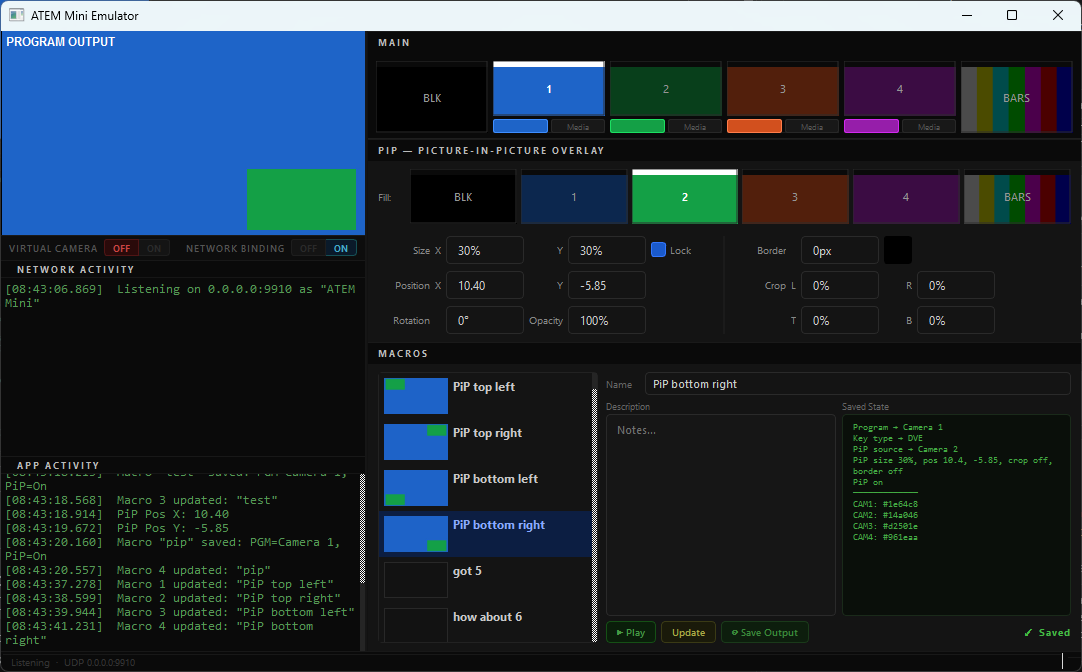
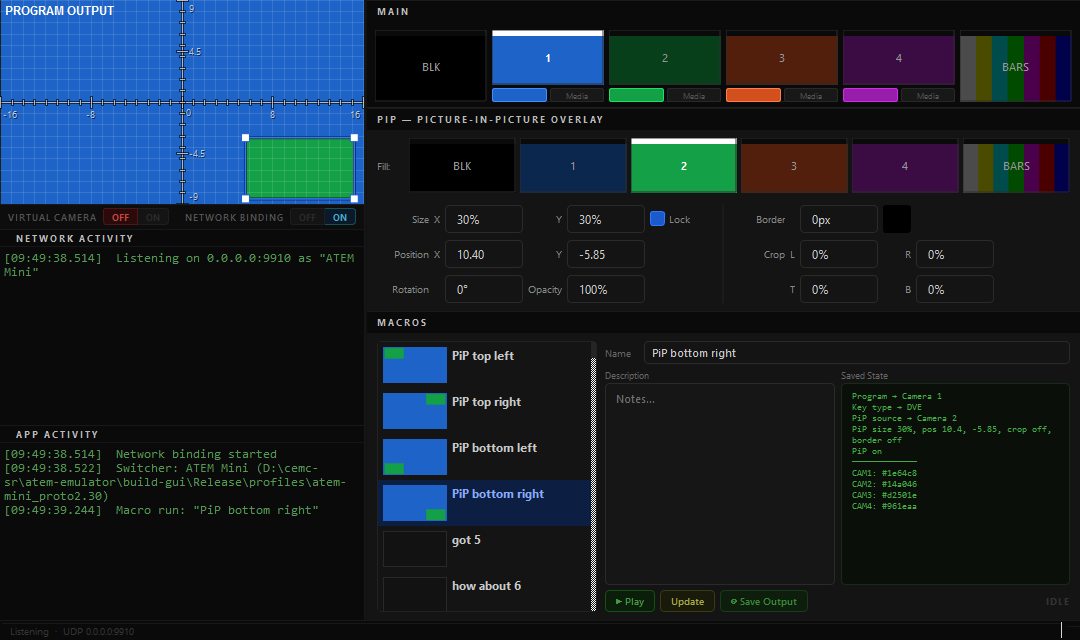
Emulator preview: axes, 1-unit grid, Shift one-axis and Alt snapping
- The preview shows the switcher's axes while the mouse is over it: origin
  0 at the centre, +Y up, a tick per unit, +-16 / +-9 and +-8 / +-4.5
  labelled.
- The drag grid is one unit (32 x 18 cells); the centre lines are on it.
- Shift: move along one axis only (the one moved more), snapped to a grid
  line on it; for a corner the same. Alt: snapped on both axes. Both apply
  at once when pressed or released mid-drag.
- A corner drag keeps where the corner was grabbed; with Lock the axis
  dragged along more sets the size (so a one-axis drag can shrink it).
- --screenshot FILE [--macro N]: run a macro, show the guides, save the
  window and exit; docs/emulator.png made with --macro 4.

diff --git a/src/PreviewWidget.cpp b/src/PreviewWidget.cpp
@@ -11,9 +11,9 @@ constexpr double kGrab = 7;         // how close to a corner grabs it
 constexpr double kMinSize = 0.05;   // the window's size range, 5-200%
 constexpr double kMaxSize = 2.0;
 constexpr double kMaxPos = 200.0;   // the position boxes' range
-// The grid: 16 x 9 cells of 2 x 2 switcher units (80 px at 1280 x 720),
-// plus the centre lines. Includes the frame edges.
-constexpr int kColumns = 16, kRows = 9;
+// The grid: 32 x 18 cells of one switcher unit (40 px at 1280 x 720), so the
+// frame edges and the centre lines are grid lines.
+constexpr int kColumns = 32, kRows = 18;
 } // namespace
 
 PreviewWidget::PreviewWidget(QWidget* parent)
@@ -134,10 +134,13 @@ void PreviewWidget::paintEvent(QPaintEvent*)
     p.setFont(QFont("Arial", 9, QFont::Bold));
     p.drawText(dst.adjusted(4, 4, 0, 0), Qt::AlignTop | Qt::AlignLeft, "PROGRAM OUTPUT");
 
-    // The grid, the PiP's outline and corner handles: only in this preview
-    // (never in the virtual camera's picture).
-    if (!interactive() || (!m_hover && m_drag == Part::None)) return;
-    if (m_drag != Part::None) paintGrid(p);
+    // The grid, the axes, the PiP's outline and corner handles: only in this
+    // preview (never in the virtual camera's picture).
+    const bool dragging = m_drag != Part::None || m_showGuides;
+    if (!m_hover && !dragging) return;
+    if (dragging) paintGrid(p);
+    paintAxes(p);
+    if (!interactive()) return;
     QPolygonF c = corners(m_geo);
     for (QPointF& pt : c) pt = toWidget(pt);
     p.setRenderHint(QPainter::Antialiasing);
@@ -162,7 +165,8 @@ void PreviewWidget::mousePressEvent(QMouseEvent* e)
     m_drag = part;
     m_pressFrame = toFrame(e->position());
     m_lastPos = e->position();
-    m_snap = e->modifiers() & Qt::ShiftModifier;
+    m_oneAxis = e->modifiers() & Qt::ShiftModifier;
+    m_snapBoth = e->modifiers() & Qt::AltModifier;
     m_startPip = m_pip;
     m_startGeo = m_geo;
     updateCursor(part);
@@ -174,7 +178,8 @@ void PreviewWidget::mouseMoveEvent(QMouseEvent* e)
     m_hover = true;
     if (m_drag != Part::None) {
         m_lastPos = e->position();
-        m_snap = e->modifiers() & Qt::ShiftModifier;
+        m_oneAxis = e->modifiers() & Qt::ShiftModifier;
+        m_snapBoth = e->modifiers() & Qt::AltModifier;
         dragTo(m_lastPos);
         update();
         return;
@@ -193,12 +198,12 @@ void PreviewWidget::mouseReleaseEvent(QMouseEvent* e)
     emit pipEditFinished(resized);
 }
 
-// Esc during a drag puts the PiP back where it was; Shift snaps (or stops
-// snapping) at once, without waiting for the mouse to move.
+// Esc during a drag puts the PiP back where it was; Shift and Alt take
+// effect at once, without waiting for the mouse to move.
 void PreviewWidget::keyPressEvent(QKeyEvent* e)
 {
-    if (e->key() == Qt::Key_Shift && m_drag != Part::None) {
-        m_snap = true;
+    if ((e->key() == Qt::Key_Shift || e->key() == Qt::Key_Alt) && m_drag != Part::None) {
+        (e->key() == Qt::Key_Shift ? m_oneAxis : m_snapBoth) = true;
         dragTo(m_lastPos);
         update();
         return;
@@ -213,8 +218,11 @@ void PreviewWidget::keyPressEvent(QKeyEvent* e)
 
 void PreviewWidget::keyReleaseEvent(QKeyEvent* e)
 {
-    if (e->key() != Qt::Key_Shift || m_drag == Part::None) { QWidget::keyReleaseEvent(e); return; }
-    m_snap = false;
+    if ((e->key() != Qt::Key_Shift && e->key() != Qt::Key_Alt) || m_drag == Part::None) {
+        QWidget::keyReleaseEvent(e);
+        return;
+    }
+    (e->key() == Qt::Key_Shift ? m_oneAxis : m_snapBoth) = false;
     dragTo(m_lastPos);
     update();
 }
@@ -231,15 +239,20 @@ void PreviewWidget::dragTo(const QPointF& widgetPos)
     const PipGeometry& g = m_startGeo;
     const double sizeX0 = m_startPip.sizeX / 1000.0, sizeY0 = m_startPip.sizeY / 1000.0;
 
+    // Shift: along one axis only (the one moved more), snapped on it.
+    // Alt: snapped on both axes. (Pixels are square: 40 px per unit.)
+    QPointF delta = at - m_pressFrame;
+    const bool alongX = std::abs(delta.x()) >= std::abs(delta.y());
+    if (m_oneAxis) (alongX ? delta.ry() : delta.rx()) = 0;
+    const bool snapX = m_snapBoth || (m_oneAxis && alongX);
+    const bool snapY = m_snapBoth || (m_oneAxis && !alongX);
+
     if (m_drag == Part::Body) {
-        QPointF delta = at - m_pressFrame;
-        if (m_snap) {
-            // The nearest of the PiP's edges and centre goes onto a grid line
-            // (for a turned PiP, its bounding box's).
-            QRectF r = rotation(g).map(QPolygonF(g.visible)).boundingRect().translated(delta);
-            delta += QPointF(snapShift({ r.left(), r.center().x(), r.right() }, Qt::Horizontal),
-                             snapShift({ r.top(), r.center().y(), r.bottom() }, Qt::Vertical));
-        }
+        // The nearest of the PiP's edges and centre goes onto a grid line
+        // (for a turned PiP, its bounding box's).
+        QRectF r = rotation(g).map(QPolygonF(g.visible)).boundingRect().translated(delta);
+        if (snapX) delta.rx() += snapShift({ r.left(), r.center().x(), r.right() }, Qt::Horizontal);
+        if (snapY) delta.ry() += snapShift({ r.top(), r.center().y(), r.bottom() }, Qt::Vertical);
         emitGeometry(g.box.center() + delta, sizeX0, sizeY0, false);
         return;
     }
@@ -248,20 +261,27 @@ void PreviewWidget::dragTo(const QPointF& widgetPos)
     // (unrotated) coordinates, then turned back into the frame.
     const QSizeF frame = frameSize();
     const QTransform turn = rotation(g);
-    // Snapping puts the dragged corner on the nearest grid point.
-    const QPointF corner = m_snap ? at + QPointF(snapShift({ at.x() }, Qt::Horizontal),
-                                                 snapShift({ at.y() }, Qt::Vertical)) : at;
-    const QPointF local = turn.inverted().map(corner);
     const bool right = m_drag == Part::TopRight || m_drag == Part::BottomRight;
     const bool bottom = m_drag == Part::BottomLeft || m_drag == Part::BottomRight;
     const QPointF anchor(right ? g.visible.left() : g.visible.right(),
                          bottom ? g.visible.top() : g.visible.bottom());
+    const QPointF startCorner(right ? g.visible.right() : g.visible.left(),
+                              bottom ? g.visible.bottom() : g.visible.top());
+    // The corner follows the mouse (keeping where it was grabbed); snapping
+    // puts it on a grid line.
+    QPointF corner = turn.map(startCorner) + delta;
+    if (snapX) corner.rx() += snapShift({ corner.x() }, Qt::Horizontal);
+    if (snapY) corner.ry() += snapShift({ corner.y() }, Qt::Vertical);
+    const QPointF local = turn.inverted().map(corner);
     const double fw = 1 - g.ml - g.mr, fh = 1 - g.mt - g.mb;   // the mask keeps these shares
 
     double sizeX = (right ? local.x() - anchor.x() : anchor.x() - local.x()) / fw / frame.width();
     double sizeY = (bottom ? local.y() - anchor.y() : anchor.y() - local.y()) / fh / frame.height();
     if (m_lockAspect) {
-        double s = qMax(sizeX / sizeX0, sizeY / sizeY0);
+        // The axis the corner moved more along sets the size.
+        const QPointF moved = local - startCorner;
+        double s = std::abs(moved.x()) / frame.width() >= std::abs(moved.y()) / frame.height()
+                 ? sizeX / sizeX0 : sizeY / sizeY0;
         s = qBound(kMinSize / qMin(sizeX0, sizeY0), s, kMaxSize / qMax(sizeX0, sizeY0));
         sizeX = sizeX0 * s;
         sizeY = sizeY0 * s;
@@ -298,7 +318,6 @@ QList<double> PreviewWidget::gridLines(Qt::Orientation o) const
     const int cells = o == Qt::Horizontal ? kColumns : kRows;
     QList<double> lines;
     for (int i = 0; i <= cells; ++i) lines.append(length * i / cells);
-    if (cells % 2) lines.append(length / 2);    // 9 rows: the centre is between lines
     return lines;
 }
 
@@ -319,20 +338,72 @@ double PreviewWidget::snapShift(const QList<double>& edges, Qt::Orientation o) c
 void PreviewWidget::paintGrid(QPainter& p) const
 {
     p.save();
-    QRectF r = frameRect();
-    const QColor line(255, 255, 255, m_snap ? 70 : 35);
-    const QColor centre(255, 255, 255, m_snap ? 130 : 70);
-    auto draw = [&](Qt::Orientation o) {
-        const double length = o == Qt::Horizontal ? frameSize().width() : frameSize().height();
-        for (double at : gridLines(o)) {
-            const bool mid = qFuzzyCompare(at, length / 2);
-            p.setPen(QPen(mid ? centre : line, 1, mid ? Qt::DashLine : Qt::SolidLine));
-            QPointF w = toWidget(o == Qt::Horizontal ? QPointF(at, 0) : QPointF(0, at));
-            if (o == Qt::Horizontal) p.drawLine(QPointF(w.x(), r.top()), QPointF(w.x(), r.bottom()));
-            else                     p.drawLine(QPointF(r.left(), w.y()), QPointF(r.right(), w.y()));
-        }
+    const QRectF r = frameRect();
+    p.setPen(QPen(QColor(255, 255, 255, m_oneAxis || m_snapBoth ? 60 : 30), 1));
+    for (double at : gridLines(Qt::Horizontal)) {
+        const double x = toWidget(QPointF(at, 0)).x();
+        p.drawLine(QPointF(x, r.top()), QPointF(x, r.bottom()));
+    }
+    for (double at : gridLines(Qt::Vertical)) {
+        const double y = toWidget(QPointF(0, at)).y();
+        p.drawLine(QPointF(r.left(), y), QPointF(r.right(), y));
+    }
+    p.restore();
+}
+
+// The switcher's coordinates: X and Y axes through the origin (the frame's
+// centre), a tick per unit, and the edges (+-16, +-9) and halfway points
+// (+-8, +-4.5) marked with their values. +Y is up.
+void PreviewWidget::paintAxes(QPainter& p) const
+{
+    p.save();
+    const QRectF r = frameRect();
+    const QPointF o = r.center();
+    const double unit = r.width() / 32;     // widget pixels per switcher unit
+    const QColor ink(255, 255, 255, 170), shadow(0, 0, 0, 150);
+
+    auto line = [&](QPointF a, QPointF b) {
+        p.setPen(QPen(shadow, 3));
+        p.drawLine(a, b);
+        p.setPen(QPen(ink, 1));
+        p.drawLine(a, b);
     };
-    draw(Qt::Horizontal);
-    draw(Qt::Vertical);
+    line({ r.left(), o.y() }, { r.right(), o.y() });
+    line({ o.x(), r.top() }, { o.x(), r.bottom() });
+    for (int i = -16; i <= 16; ++i) {
+        const double len = i % 8 == 0 ? 5 : 2;
+        line({ o.x() + i * unit, o.y() - len }, { o.x() + i * unit, o.y() + len });
+    }
+    for (int j = -9; j <= 9; ++j) {
+        const double len = j == 9 || j == -9 ? 5 : 2;
+        line({ o.x() - len, o.y() - j * unit }, { o.x() + len, o.y() - j * unit });
+    }
+    for (double j : { -4.5, 4.5 })
+        line({ o.x() - 5, o.y() - j * unit }, { o.x() + 5, o.y() - j * unit });
+
+    QFont f = font();
+    f.setPointSizeF(7);
+    p.setFont(f);
+    auto label = [&](const QString& text, QPointF at, Qt::Alignment a) {
+        QRectF box(at.x() - 40, at.y() - 10, 80, 20);
+        if (a & Qt::AlignLeft) box.moveLeft(at.x());
+        if (a & Qt::AlignRight) box.moveRight(at.x());
+        if (a & Qt::AlignTop) box.moveTop(at.y());
+        if (a & Qt::AlignBottom) box.moveBottom(at.y());
+        p.setPen(shadow);
+        p.drawText(box.translated(1, 1), a, text);
+        p.setPen(ink);
+        p.drawText(box, a, text);
+    };
+    const double below = o.y() + 6, beside = o.x() + 7;
+    label("0", { o.x() + 4, o.y() + 4 }, Qt::AlignLeft | Qt::AlignTop);
+    label("-16", { r.left() + 3, below }, Qt::AlignLeft | Qt::AlignTop);
+    label("16", { r.right() - 3, below }, Qt::AlignRight | Qt::AlignTop);
+    label("-8", { o.x() - 8 * unit, below }, Qt::AlignHCenter | Qt::AlignTop);
+    label("8", { o.x() + 8 * unit, below }, Qt::AlignHCenter | Qt::AlignTop);
+    label("9", { beside, r.top() + 2 }, Qt::AlignLeft | Qt::AlignTop);
+    label("-9", { beside, r.bottom() - 2 }, Qt::AlignLeft | Qt::AlignBottom);
+    label("4.5", { beside, o.y() - 4.5 * unit }, Qt::AlignLeft | Qt::AlignVCenter);
+    label("-4.5", { beside, o.y() + 4.5 * unit }, Qt::AlignLeft | Qt::AlignVCenter);
     p.restore();
 }

diff --git a/src/PreviewWidget.h b/src/PreviewWidget.h
@@ -8,9 +8,11 @@
 // Accepts a new frame via setFrame() and repaints.
 //
 // The PiP on it can be dragged to move it, and resized by its corner handles
-// (shown while the mouse is over the picture). While dragging, a grid is
-// drawn; holding Shift snaps to it. The widget only reports the new
-// geometry; the window sends it to the switcher like any other change.
+// (shown, with the switcher's X / Y axes, while the mouse is over the
+// picture). While dragging, a grid of one unit is drawn: Shift keeps the drag
+// on one axis and snaps it to the grid, Alt snaps on both axes. The widget
+// only reports the new geometry; the window sends it to the switcher like
+// any other change.
 
 class PreviewWidget : public QWidget
 {
@@ -25,6 +27,8 @@ public:
     void setPip(const Atem::KeDVState& pip);
     // Corner drags keep the width : height ratio (the window's size Lock).
     void setLockAspect(bool lock) { m_lockAspect = lock; }
+    // Show the axes, grid and handles as during a drag (for screenshots).
+    void setShowGuides(bool on) { m_showGuides = on; update(); }
 
 public slots:
     void setFrame(const QImage& img);
@@ -60,6 +64,7 @@ private:
     QList<double> gridLines(Qt::Orientation o) const;   // frame pixels
     double snapShift(const QList<double>& edges, Qt::Orientation o) const;
     void paintGrid(QPainter& p) const;
+    void paintAxes(QPainter& p) const;
     void emitGeometry(const QPointF& boxCentre, double sizeX, double sizeY, bool resized);
 
     QImage m_frame;
@@ -67,11 +72,13 @@ private:
     PipGeometry m_geo;
     bool m_lockAspect = true;
     bool m_hover = false;
+    bool m_showGuides = false;
 
     Part m_drag = Part::None;
     QPointF m_pressFrame;                     // where the drag started, frame pixels
     QPointF m_lastPos;                        // the mouse during a drag, widget pixels
-    bool m_snap = false;                      // Shift held: snap to the grid
+    bool m_oneAxis = false;                   // Shift: one axis, snapped on it
+    bool m_snapBoth = false;                  // Alt: snapped on both axes
     Atem::KeDVState m_startPip;
     PipGeometry m_startGeo;
 };

diff --git a/src/main.cpp b/src/main.cpp
@@ -5,6 +5,7 @@
 #include <QDir>
 #include <QFileInfo>
 #include <QSurfaceFormat>
+#include <QTimer>
 
 #ifndef ATEM_EMU_PROFILES
 #define ATEM_EMU_PROFILES ""
@@ -33,7 +34,10 @@ int main(int argc, char* argv[])
     QCommandLineOption listen("listen", "Address to listen on (default: all).", "address", "0.0.0.0");
     QCommandLineOption reference("reference", "Start exactly as recorded: no saved macros are loaded or saved "
                                               "(for checking the emulator with atem-sweep).");
-    parser.addOptions({ profile, listen, reference });
+    QCommandLineOption screenshot("screenshot", "Save the window to FILE after a few seconds and exit "
+                                                "(for documentation; the preview shows its guides).", "file");
+    QCommandLineOption macro("macro", "With --screenshot: run macro N (1-100) first.", "n");
+    parser.addOptions({ profile, listen, reference, screenshot, macro });
     parser.process(app);
 
     Logger::instance().open();
@@ -46,6 +50,16 @@ int main(int argc, char* argv[])
     MainWindow w(options);
     if (!w.isReady()) return 1;
     w.show();
+
+    if (parser.isSet(screenshot)) {
+        const QString file = parser.value(screenshot);
+        const int slot = parser.isSet(macro) ? parser.value(macro).toInt() - 1 : -1;
+        QTimer::singleShot(500, &w, [&w, slot] { w.prepareScreenshot(slot); });
+        QTimer::singleShot(3000, &w, [&w, file] {
+            if (!w.grab().save(file)) qWarning("could not save %s", qPrintable(file));
+            w.close();
+        });
+    }
 
     return app.exec();
 }

diff --git a/src/MainWindow.cpp b/src/MainWindow.cpp
@@ -1270,6 +1270,15 @@ void MainWindow::onMacroRun()
     apply("MAct", emu::cmd::macroAction((quint16)slot, 0));
 }
 
+void MainWindow::prepareScreenshot(int macroSlot)
+{
+    if (macroSlot >= 0 && macroSlot < m_macroList->count()) {
+        m_macroList->setCurrentRow(macroSlot);
+        onMacroRun();
+    }
+    m_preview->setShowGuides(true);
+}
+
 void MainWindow::onMacroUpdate()
 {
     auto* sel = selectedMacroItem(); if (!sel) return;

diff --git a/src/MainWindow.h b/src/MainWindow.h
@@ -36,6 +36,9 @@ public:
     ~MainWindow() override;
 
     bool isReady() const { return m_ready; }
+    // --screenshot: run this macro slot (0-based, -1: none), select it, and
+    // show the preview's guides.
+    void prepareScreenshot(int macroSlot);
 
 protected:
     void closeEvent(QCloseEvent* e) override;

diff --git a/README.md b/README.md
@@ -53,6 +53,7 @@ It listens on **UDP 0.0.0.0:9910** at start. Options:
 | `--listen ADDRESS` | Listen on one address only, e.g. `127.0.0.2` |
 | `--profile DIR` | Emulate another recorded switcher (default `profiles/atem-mini_proto2.30`; also `atem-mini_proto2.30_2026-09-28`) |
 | `--reference` | Start exactly as recorded: saved macros are not loaded or saved (for checks against the recordings) |
+| `--screenshot FILE [--macro N]` | For documentation: run macro N, show the preview's axes and grid, save the window to FILE and exit |
 
 The build also makes `atem-emu.exe`, the same switcher without a window
 ([core/](core)). Build details: [docs/overview.md](docs/overview.md#build).
@@ -106,12 +107,19 @@ Click a **Fill** button to show that source as the PiP (the key becomes a DVE
 key and goes on air); click the lit one again to take the PiP off air.
 
 On the program picture, drag the PiP to move it, or drag one of its corner
-handles (shown while the mouse is over the picture) to resize it; the
-opposite corner stays put, and **Lock** keeps the proportions. While you
-drag, a grid of 2 × 2 units (16 × 9 cells, plus dashed centre lines) is
-drawn; hold **Shift** to snap to it — a moved PiP puts its nearest edge or
-centre on a line, a dragged corner lands on a grid point. Esc during a drag
-puts it back.
+handles to resize it; the opposite corner stays put, and **Lock** keeps the
+proportions (the axis you drag along more sets the size). While the mouse is
+over the picture it shows the switcher's axes: the origin 0 in the centre,
++Y up, a tick per unit, the edges (±16, ±9) and halfway points (±8, ±4.5)
+labelled. While you drag, a grid of one unit (32 × 18 cells) is drawn:
+
+| Hold | Moving the PiP | Dragging a corner |
+| --- | --- | --- |
+| **Shift** | along one axis only (the one you move more), its nearest edge or centre snapped to a grid line | along one axis only, snapped to a grid line |
+| **Alt** | freely, snapped on both axes | to the nearest grid point |
+
+Shift and Alt apply the moment you press or release them. Esc during a drag
+puts the PiP back.
 
 The mouse wheel changes a number box while it has the focus (click it
 first); Ctrl + wheel steps ten times as far.
